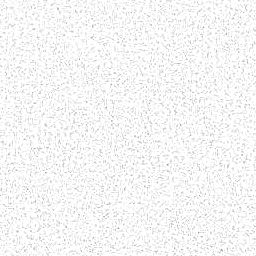
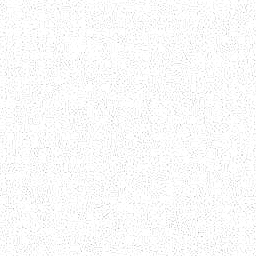
Theme grain: fine speckle only, softer
make_grain.py now high-passes with a small Gaussian blur (radius 1.2) so slow
shading and texture stay behind, and takes a strength factor. Tile remade
at strength 0.8 (about 1.7 levels of grain).

Changed region(s): [[0.25, 0.5, 0.2812, 0.5312]]

diff --git a/tools/make_grain.py b/tools/make_grain.py
@@ -1,8 +1,9 @@
 #!/usr/bin/env python3
 """Lift the film grain out of a flat, dark patch of a photo into a tile for the theme.
 
-usage: make_grain.py PHOTO OUT.png [x y size] [bg_luma]
-The grain is the photo minus a blurred copy of itself. Light grain becomes white
+usage: make_grain.py PHOTO OUT.png [x y size] [bg_luma] [strength] [radius]
+The grain is the photo minus a lightly blurred copy of itself (radius px), so only
+the finest speckle and clumps stay and slow shading or texture is left behind. Light grain becomes white
 pixels and dark grain black pixels, each with just enough alpha to shift a
 background of bg_luma by the same amount the photo shifts, so the tile laid over
 the app reproduces the photo's grain at the same strength and clump size.
@@ -14,13 +15,15 @@ from PIL import Image, ImageFilter
 photo, out = sys.argv[1], sys.argv[2]
 x, y, size = (int(v) for v in sys.argv[3:6]) if len(sys.argv) > 5 else (1200, 1700, 256)
 bg = float(sys.argv[6]) if len(sys.argv) > 6 else 32.0
+strength = float(sys.argv[7]) if len(sys.argv) > 7 else 1.0
+radius = float(sys.argv[8]) if len(sys.argv) > 8 else 1.2
 
 im = Image.open(photo).convert("L")
 pad = 16
 patch = im.crop((x - pad, y - pad, x + size + pad, y + size + pad))
-smooth = patch.filter(ImageFilter.BoxBlur(4))
+smooth = patch.filter(ImageFilter.GaussianBlur(radius))
 n = (np.asarray(patch, float) - np.asarray(smooth, float))[pad:-pad, pad:-pad]
-n -= n.mean()
+n = (n - n.mean()) * strength
 light = n > 0
 alpha = np.where(light, n / (255.0 - bg), -n / bg)
 rgba = np.zeros((size, size, 2), np.uint8)
